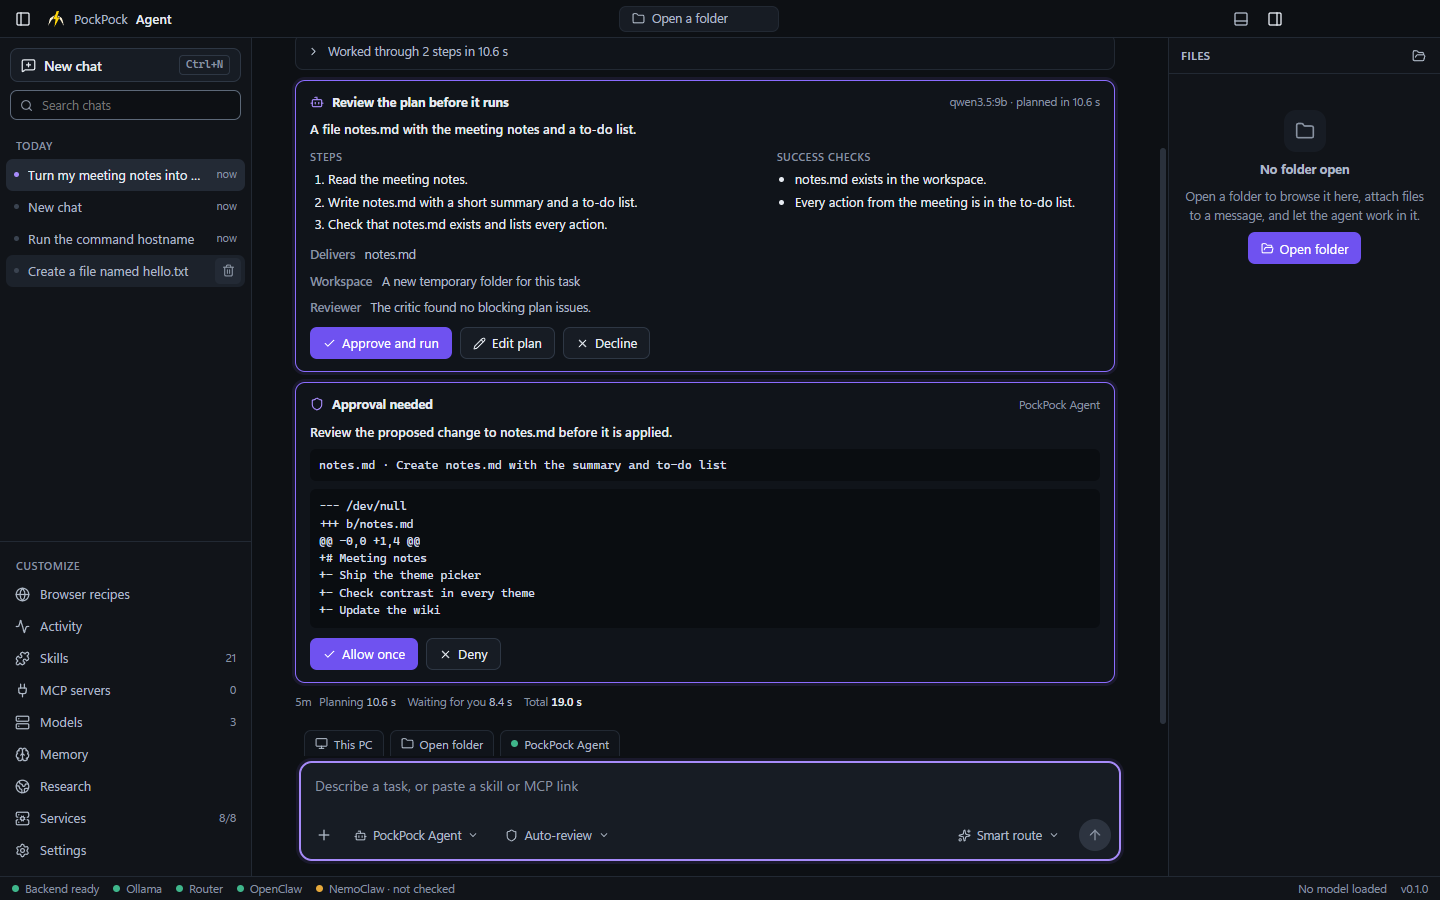
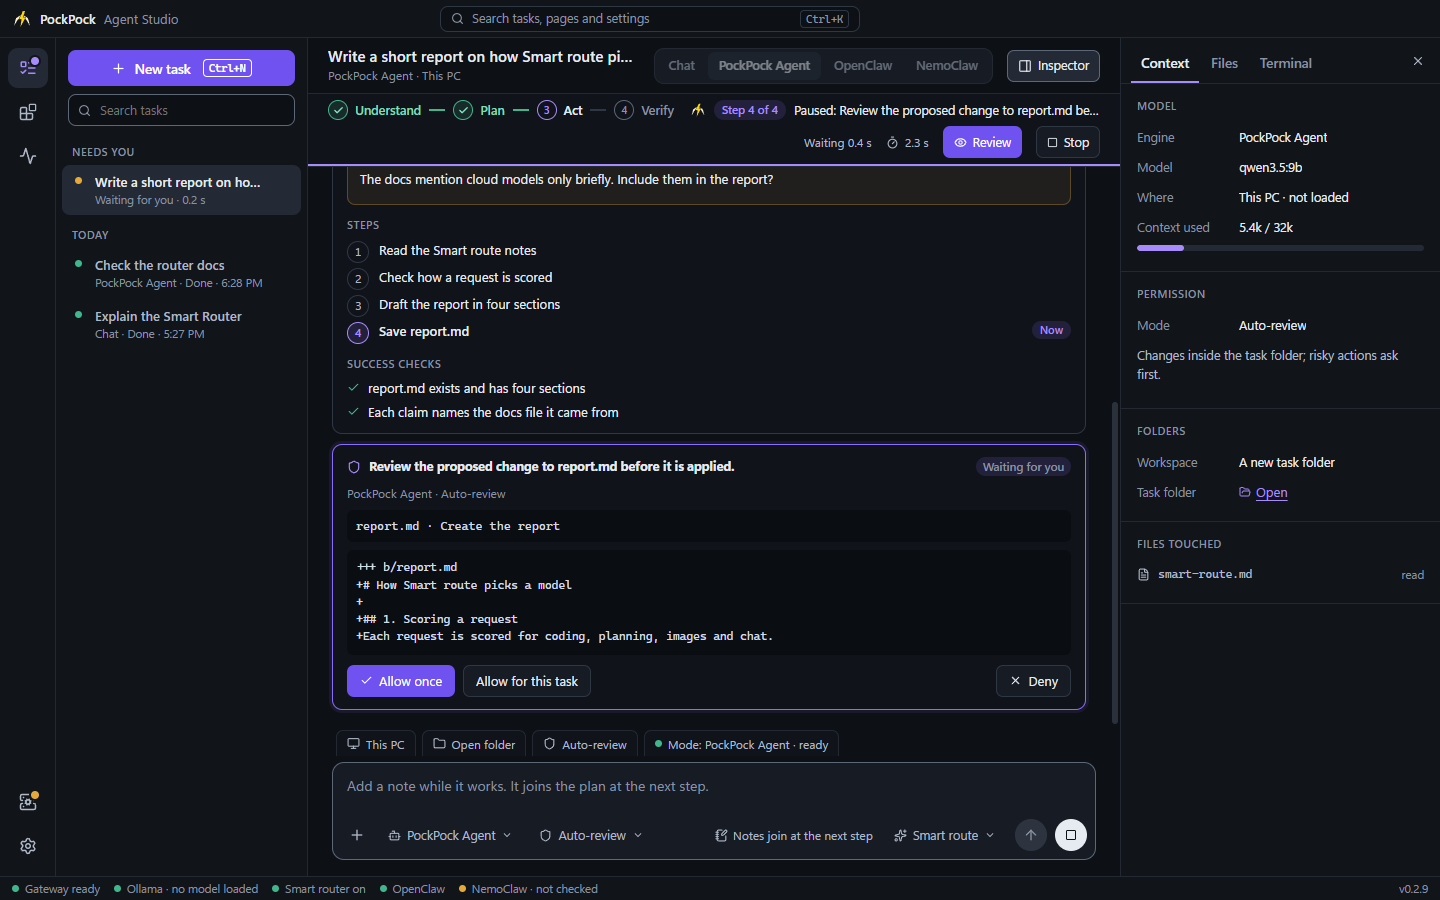
docs(readme): current screenshots and content for 0.2.9
- Every README image retaken in the 0.2.9 Agent Studio UI (home, plan,
  working, approval, done, themes, skills, Services with Local MCP, setup,
  report, Maintenance with OpenAI Codex, Connectors, GitHub, OpenClaw
  approval), plus MCP servers and watched research pages. Stand-in data;
  personal paths and email addresses masked.
- Highlights now cover Plan in steps, the run bar, mcpservers.org search,
  Local MCP, watched research pages and the Maintenance accounts.
- The privacy line says cloud models are optional; the developer tree lists
  every backend project; troubleshooting covers Local MCP and cloud keys.

diff --git a/README.md b/README.md
@@ -5,11 +5,11 @@
 [![CI](https://github.com/PockPock9/PockPockAgent/actions/workflows/ci.yml/badge.svg)](https://github.com/PockPock9/PockPockAgent/actions/workflows/ci.yml)
 [![License: Apache-2.0](https://img.shields.io/badge/license-Apache--2.0-blue.svg)](LICENSE)
 
-PockPock is a local AI workspace for Windows and macOS. Its desktop app, **PockPock Agent**, chats with models running on your own PC and runs agents that plan and carry out tasks: reading and writing files, researching public websites, driving a browser, and, with the OpenClaw engine, operating the PC itself. Everything runs locally through [Ollama](https://ollama.com); prompts and replies are not sent to a cloud service or written to telemetry.
+PockPock is a local AI workspace for Windows and macOS. Its desktop app, **PockPock Agent**, chats with models running on your own PC and runs agents that plan and carry out tasks: reading and writing files, researching public websites, driving a browser, and, with the OpenClaw engine, operating the PC itself. Everything runs locally through [Ollama](https://ollama.com): prompts and replies stay on your PC and are never written to telemetry. Cloud models (NVIDIA NIM, OpenAI, Claude, Alibaba) are optional and used only when you pick one.
 
 **[Download PockPock Agent](https://github.com/PockPock9/PockPockAgent/releases/latest)** for Windows or Mac, open it, and press **Set up PockPock**. Setup installs everything else. See [Install](#install).
 
-![PockPock Agent: chats on the left, the conversation in the middle, the open folder's files on the right](docs/images/home.png)
+![PockPock Agent Studio: the task list, a finished research task with its sources, and the Inspector](docs/images/home.png)
 
 ---
 
@@ -19,7 +19,9 @@ PockPock is a local AI workspace for Windows and macOS. Its desktop app, **PockP
 
 **You approve the plan before anything runs.** PockPock Agent writes a plan with steps, success checks and the files it will deliver, and a reviewer checks it. You can approve it, edit it, or decline it.
 
-![Plan card with steps, success checks and Approve and run, Edit plan, Decline](docs/images/agent-plan.png)
+![Plan card with pre-checks, a question to answer, steps and success checks](docs/images/agent-plan.png)
+
+**Plan in steps with a stronger model.** In PockPock Agent's model menu, **Planning** lets a stronger model (a connected cloud model or a large local one) write the plan; each step then runs with a short prompt and only the tools it needs, and must pass its check before the next one starts. See [Plan in steps](docs/features/plan-and-sequence.md).
 
 **Every change shows exactly what it does.** File changes come with their diff, commands with the exact command line. You allow them once or deny them, or pick a permission mode that allows them without asking.
 
@@ -29,15 +31,23 @@ PockPock is a local AI workspace for Windows and macOS. Its desktop app, **PockP
 
 **The agent checks its own work.** Before reporting a task done, the agent validates the result against the plan's success checks and lists every file it changed or produced. Under every reply you see where the time went: planning, waiting for you, and working.
 
-**You can always see it working.** While an agent thinks, plans or runs a tool, the bolt of the PockPock mark pulses next to what it is doing, with a running timer, and a thin bar sweeps across the composer. It never just sits there.
+**You can always see it working.** The run bar above the task shows the phase (Understand, Plan, Act, Verify), the step it is on, and how long it has been working; the PockPock mark's bolt pulses next to what it is doing. When nothing new arrives for a while it says so and offers **Keep waiting**, a smaller model, or **Stop**.
 
-![Finished task with validation results and the changed file](docs/images/agent-done.png)
+| Working | Done, with the file it read and the change you allowed |
+|---|---|
+| ![The run bar during a task](docs/images/working.png) | ![Finished task with its checks, the approved change and the files touched](docs/images/agent-done.png) |
 
-**Skills and MCP servers from a link.** Paste a GitHub skill link or an MCP server address. PockPock shows what it would install, adds it only after you approve, and lets you switch each one off without removing it.
+**Skills and MCP servers from a link, or from mcpservers.org.** Paste a GitHub skill link or an MCP server address, or search **mcpservers.org** right on the Skills and MCP servers pages. PockPock shows what it would install, adds it only after you approve, and lets you switch each one off without removing it. MCP servers you add run in **Local MCP**: each starts once, is shared by the agents, keeps its keys with PockPock (encrypted on Windows), and shows whether it is running, with its log and a restart button.
+
+![The MCP servers page with two servers running in Local MCP](docs/images/mcp-servers.png)
+
+**Research public pages, and watch them for changes.** PockPock Agent can read the public websites you name, lists every source it used, and lets you save a source and **Watch for changes**: PockPock re-reads it in the background and tells you when it changes.
+
+![Watched pages on the Research page](docs/images/research-watch.png)
 
 **Five themes.** **PockPock Dark** (the default), **Volt** and **Storm** in the brand's colours, **Feather** for light mode, and **System**, which follows your computer. Every theme meets WCAG AA contrast. Pick one in **Settings → Theme**.
 
-![The same plan review in PockPock Dark, Volt, Storm and Feather](docs/images/themes.png)
+![The same finished task in PockPock Dark, Volt, Storm and Feather](docs/images/themes.png)
 
 **One app runs everything.** Ollama, the backend services and the agent engines start with the app. Start, stop, restart, or read the logs of each one from the **Services** page.
 
@@ -49,11 +59,11 @@ PockPock is a local AI workspace for Windows and macOS. Its desktop app, **PockP
 
 ![Setup finished: every service running and checked](docs/images/setup-done.png)
 
-**PockPock can fix itself from your reports.** Press **Report** under a reply that hung, failed or was wrong. The **Maintenance Manager** works through the reports in its own copy of the code: it finds the cause, fixes it with a documentation update, runs the checks and shows you the change. A draft pull request is opened only after you approve it. Choose who does the fixing: PockPock itself with a local model, Claude Code or GitHub Copilot; the app installs and signs in to the last two for you.
+**PockPock can fix itself from your reports.** Press **Report** under a reply that hung, failed or was wrong. The **Maintenance Manager** works through the reports in its own copy of the code: it finds the cause, fixes it with a documentation update, runs the checks and shows you the change. A draft pull request is opened only after you approve it. Choose who does the fixing: **PockPock itself** with a local model (the default; nothing leaves your PC), or, if you want to help with a stronger model, your own **Claude Code**, **OpenAI Codex** or **GitHub Copilot** account. An account is used only after you connect it here; the app installs and signs in to these tools for you.
 
 | Report a reply | Choose who fixes it |
 |---|---|
-| ![The Report dialog under a reply that failed](docs/images/report-dialog.png) | ![Maintenance: PockPock itself, Claude Code and GitHub Copilot](docs/images/maintenance-setup.png) |
+| ![The Report dialog under a reply](docs/images/report-dialog.png) | ![Maintenance Manager setup: PockPock itself, Claude Code, OpenAI Codex and GitHub Copilot](docs/images/maintenance-setup.png) |
 
 **Connect your apps.** The **Connectors** page links GitHub, email, Telegram, Slack, Discord and Notion. You paste a key you create in the app; PockPock checks it with the app, stores it encrypted, and gives the OpenClaw agent tools for it. Sending, posting and creating ask you first.
 
@@ -65,7 +75,7 @@ PockPock is a local AI workspace for Windows and macOS. Its desktop app, **PockP
 
 | Cloud models | In the model menu |
 |---|---|
-| ![The Cloud models page with a provider connected](docs/images/cloud-models.png) | ![The model menu with local and cloud models](docs/images/model-menu-cloud.png) |
+| ![The Cloud models page with NVIDIA NIM and Claude connected](docs/images/cloud-models.png) | ![The model menu with local and cloud models](docs/images/model-menu-cloud.png) |
 
 *The Cloud models screenshots show sample models and sample key endings; no real account is connected in them.*
 
@@ -130,7 +140,7 @@ The window (**Agent Studio**) has an icon rail on the far left (Tasks, Workshop,
 - **Connectors**: connect **GitHub**, **email**, **Telegram**, **Slack**, **Discord** or **Notion** with a key you create in that app. PockPock checks the key with the app, stores it encrypted, and gives the OpenClaw agent tools for it (read issues, search mail, read messages; sending, posting and creating ask you first). See [Connectors](docs/features/connectors.md).
 - **Cloud models**: connect **NVIDIA NIM**, **OpenAI**, **Claude (Anthropic)** or **Alibaba Cloud Model Studio** with your own API key (for OpenAI and Claude, a developer-platform API key: a ChatGPT or Claude.ai subscription does not include API use), choose which of their models you want, and pick them in the model menu of Chat, PockPock Agent, OpenClaw or NemoClaw. Disconnecting a service, or switching one of its models off, also puts every model choice that used it back to its default. A cloud model is used only when you pick it; **Smart route** keeps choosing local models. A chat that uses a cloud model sends its messages, files and tool results to that service. See [Cloud models](docs/features/cloud-models.md).
 - **Updates** (Windows): new versions download in the background and install when you press **Restart to update** or quit PockPock; your chats and settings are kept. On a Mac, PockPock tells you when a new version is available and links to its download.
-- **Services** starts, stops and restarts everything (Ollama, the backend services, OpenClaw, NemoClaw) all at once or one by one, shows their logs, and sets startup options. All services start when the app opens; a model loads into memory only when a message uses it.
+- **Services** starts, stops and restarts everything (Ollama, the backend services including Local MCP, OpenClaw, NemoClaw) all at once or one by one, shows their logs, and sets startup options. All services start when the app opens; a model loads into memory only when a message uses it.
 
 Full guide: [PockPock Agent desktop app](docs/features/desktop-app.md).
 
@@ -194,8 +204,10 @@ PockPockAgent/
 │   └── src/            the interface
 ├── backend/
 │   ├── scripts/        gateway (pockpock_server.py), Smart Router, telemetry, pockpock.py, run_tests.py
-│   └── projects/       planner, validator, run_store, browser_automation, agent_core, agent_tools,
-│                       agent_extensions, connectors, openclaw_bridge, nemoclaw_bridge, model_router, local_memory, observability
+│   └── projects/       services: planner, validator, run_store, browser_automation, mcp_hub (Local MCP)
+│                       in the gateway: agent_core, agent_tools, agent_skills, plan_sequence, agent_extensions,
+│                       connectors, openclaw_bridge, nemoclaw_bridge, model_router, local_memory, observability
+│                       tools: agent_eval, agent_verifier
 ├── docs/               architecture, roadmap, task tracker, feature pages
 ├── design-system/      desktop design tokens and rules
 └── AGENTS.md           rules for anyone (human or AI) changing this repository
@@ -265,12 +277,14 @@ Uninstalling the app keeps this data; delete the folders to remove it.
 | "PockPock is not set up yet" | **Settings** → **Run setup**. |
 | Chat or PockPock Agent does not answer | Check **Services** (Ollama and the gateway must run) and that the Smart Router is on in **Settings**. |
 | OpenClaw is offline | **Services** → OpenClaw gateway → **Start**. Start it from the app or PowerShell, never from Git Bash. |
+| "Local MCP is not running", or an MCP server shows **Error** | **Services** → Local MCP → **Start**. For a server in error, **MCP servers** → **Log** shows why, and **Restart** tries again. |
+| A cloud model is refused | Check the key on **Cloud models** (OpenAI and Claude need an API key from their developer platforms; a ChatGPT or Claude.ai subscription does not include API use). |
 | Mac: "PockPock Agent cannot be opened" or "cannot verify the developer" | The app is not notarized yet. **System Settings → Privacy & Security → Open Anyway**, once. |
 | Mac: "is damaged and can't be opened" | The download was altered or only partly copied. Download the `.dmg` again and drag the app to Applications. |
 | Mac: NemoClaw is not offered | It needs Apple silicon. Intel Macs can use Chat, PockPock Agent and OpenClaw. |
 | A large model is very slow | Expected when it does not fit in video memory; use it for hard tasks and start a new chat for it. |
 
-More: [desktop app](docs/features/desktop-app.md), [OpenClaw](docs/features/openclaw-agent.md), [NemoClaw](docs/features/nemoclaw-agent.md), [skills and MCP](docs/features/agent-extensions.md).
+More: [desktop app](docs/features/desktop-app.md), [OpenClaw](docs/features/openclaw-agent.md), [NemoClaw](docs/features/nemoclaw-agent.md), [skills and MCP](docs/features/agent-extensions.md), [Local MCP](docs/features/local-mcp.md), [cloud models](docs/features/cloud-models.md).
 
 ---
 

diff --git a/docs/features/maintenance.md b/docs/features/maintenance.md
@@ -4,7 +4,7 @@ Users report a reply that hung, failed or was wrong with the **Report** button u
 
 ## User flow
 
-![The Report dialog under a reply that failed](../images/report-dialog.png)
+![The Report dialog under a reply](../images/report-dialog.png)
 
 1. Under any assistant reply, press **Report** (the flag button next to **Copy reply**).
 2. Choose what went wrong: **It hung or never finished**, **It failed**, **The result was wrong**, or **Something else**. A stopped reply starts on "hung", an error reply on "failed".
@@ -17,7 +17,7 @@ Users report a reply that hung, failed or was wrong with the **Report** button u
 
 ### Setup (once)
 
-![Maintenance: choose PockPock itself, Claude Code or GitHub Copilot](../images/maintenance-setup.png)
+![Maintenance Manager setup: PockPock itself, Claude Code, OpenAI Codex or GitHub Copilot](../images/maintenance-setup.png)
 
 **Maintenance → Set up the Maintenance Manager** has three steps; each needs an explicit click and can be changed later (**Change setup**).
 

diff --git a/docs/features/themes.md b/docs/features/themes.md
@@ -9,7 +9,7 @@ The desktop app has five themes and shows the PockPock mark in its title bar and
 - The title bar shows the mark (a chicken foot whose centre toe is a lightning bolt) next to "PockPock Agent".
 - While an agent thinks, plans or runs a tool, the mark's bolt pulses next to the status text ("Thinking", "Planning and reviewing the task", the running step) and its elapsed time, and a thin bar sweeps along the top of the composer. With **reduce motion** switched on in the operating system, nothing moves: the bolt is still, the bar is solid, and the text stays.
 
-![The same plan review in PockPock Dark, Volt, Storm and Feather](../images/themes.png)
+![The same finished task in PockPock Dark, Volt, Storm and Feather](../images/themes.png)
 
 ![Settings → Theme, with a colour preview for each theme](../images/settings-theme.png)
 

diff --git a/docs/features/cloud-models.md b/docs/features/cloud-models.md
@@ -19,7 +19,7 @@ OpenAI and Claude need an **API** key from the developer platform, billed per us
 
 | The Cloud models page | The model menu |
 |---|---|
-| ![The Cloud models page with a provider connected](../images/cloud-models.png) | ![The model menu with local and cloud models](../images/model-menu-cloud.png) |
+| ![The Cloud models page with NVIDIA NIM and Claude connected](../images/cloud-models.png) | ![The model menu with local and cloud models](../images/model-menu-cloud.png) |
 
 *The screenshots show sample models and sample key endings (NVIDIA NIM and Claude connected), not a real account.*
 
